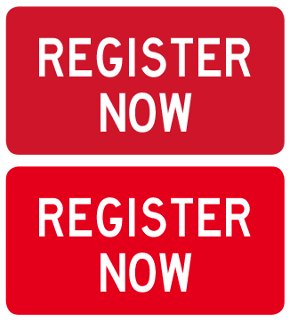
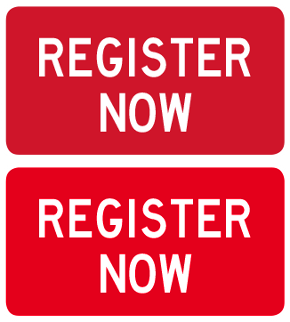
testing out a hover image for registration

diff --git a/css/global.css b/css/global.css
@@ -440,6 +440,14 @@ and (min-width : 700px) {
   background-size: 210px 116px;
 }
 
+.region-sidebar-second a.register-now:hover {
+  background-position: 0 -161px;
+}
+
+.responsive-layout-narrow .region-sidebar-second a.register-now:hover {
+  background-position: 0 -116px;
+}
+
 .not-front .region-content-inner .block-without-title {
 	padding: 20px;
 	border-radius: 15px;
